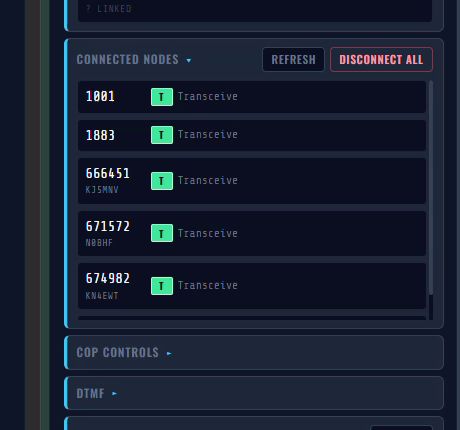
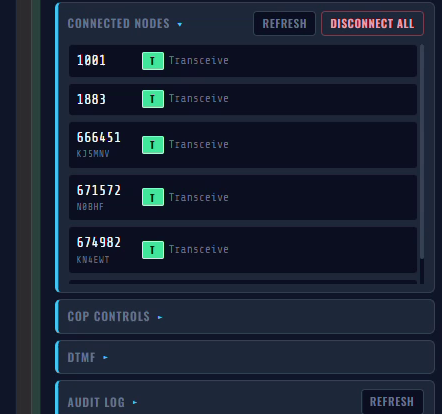
Fix the five things the front page was actually getting wrong
Measured on the live page at 1174px, then fixed one at a time.

1. The pictures. The two AllStar figures were 460x430 sources rendered at
   172-221px, and `.column-figure`'s `aspect-ratio: 4/3` with `object-fit:
   cover` was silently cutting the bottom 20% off a 1.07:1 source. Both are now
   re-cut from the redacted portrait at exactly 2x their slot (442x414 for the
   lead, 344x258 for the card, which is exactly 4:3 so cover can no longer crop
   anything) and cropped to the region that still reads at that size. Verified:
   both render at exactly 50% on a 2x display. The frontmatter width/height were
   updated to match, so the layout hint is honest too.

   The upstream repo's 1280x636 captures are NOT usable and the brief said they
   were. All three show the private LAN address in the panel subtitle and the
   whole browser tab bar with personal tabs. Corrected in the brief.

2. The kicker. The lead put its entry number on the sheet's right edge and the
   tier-two cards put it next to the category, so the same two fields had two
   treatments on one screen. The cards now match the lead (flex, space-between),
   verified flush to the column edge.

3. The theme toggle. It was the only bordered box on a page that otherwise reads
   as printed. Border gone; the 8px padding keeps the target at 34px, above the
   WCAG 2.2 minimum.

4. The nameplate mark. It rendered at up to 144px from a 224px master, so a 2x
[…]

diff --git a/docs/design/BRIEF.md b/docs/design/BRIEF.md
@@ -125,7 +125,7 @@ Explicitly rejected. If a design includes these, the design is wrong:
 The failure mode of an editorial design is **empty shelves**: a beautiful magazine with nothing in it. Mitigations:
 
 - **The projects are the writing.** The AllStar toolchain, hermes-kb, WxBot and the homelab are already essays; they need datelines, standfirsts and figures rather than card metadata.
-- **Images already exist for the flagship.** `asl-node-panel` has `assets/panel-screenshot.png`, `assets/overview-screenshot.png`, and `assets/panel-demo.gif` committed publicly. Nothing to capture, nothing to redact. hermes-kb, WxBot and asl3-api have no imagery and need a capture pass later.
+- **Images already exist for the flagship.** `asl-node-panel` has `assets/panel-screenshot.png`, `assets/overview-screenshot.png`, and `assets/panel-demo.gif` committed publicly. **Corrected 2026-09-19 by inspecting them:** the three 1280x636 captures (overview, schedules, theme) are **not** publishable as they stand. They show `http://192.168.4.32:8073` in the panel subtitle and the settings Base URL, and the whole browser tab bar including personal tabs. The only clean source is the 460x960 portrait, and `public/images/asl-panel-screenshot.png` is its redacted copy (the connection line is blanked, the desktop taskbar band is trimmed). Cut figures from that file, not from the repo's 1280 captures, and do not re-introduce the IP. hermes-kb, WxBot and asl3-api have no imagery and need a capture pass later.
 - Writing slots into the same entry spine when it exists. Nothing needs rebuilding to accommodate it.
 
 ## 7. Decisions still open

diff --git a/src/content/projects/allstar-toolchain.md b/src/content/projects/allstar-toolchain.md
@@ -19,9 +19,9 @@ caseStudy: true
 order: 1
 image:
   src: "/images/asl-panel-nodes.png"
-  alt: "The node panel showing live connections to other AllStar nodes."
-  width: 460
-  height: 430
+  alt: "The panel's connected-nodes list: five live connections, each transceiving."
+  width: 442
+  height: 414
 ---
 
 ## What this is
@@ -35,9 +35,9 @@ Three small projects that together give an AllStarLink node a modern control sur
 <figure>
   <img
     src="/images/asl-panel-screenshot.png"
-    alt="The ASL Node Panel showing node 637858, five keys today, six connected nodes, and a list of live connections"
+    alt="The ASL Node Panel showing node 637050, five keys today, six connected nodes, and a list of live connections"
     width="460"
-    height="948"
+    height="924"
   />
   <figcaption>
     The Chrome side panel, live against my node. Current connections, weekly keys, and one-tap

diff --git a/src/content/projects/asl3-mcp.md b/src/content/projects/asl3-mcp.md
@@ -11,9 +11,9 @@ repo: "https://github.com/KJ5IRQ/asl3-mcp"
 stack: ["Python", "MCP", "FastAPI"]
 image:
   src: "/images/asl-panel-lead.png"
-  alt: "The ASL Node Panel: live node status, connected nodes, and one-tap controls."
-  width: 460
-  height: 430
+  alt: "The ASL Node Panel: node 637050, callsign KJ5IRQ, five keys today, six connected nodes."
+  width: 344
+  height: 258
 order: 2
 ---
 
